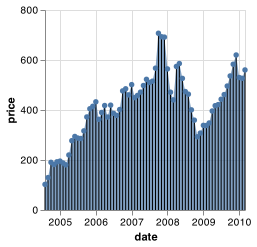
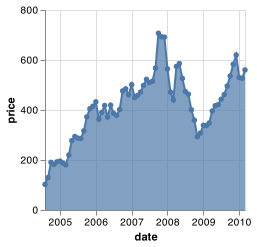
Remove y2/x2 channel for overlaying lines and points

Changed region(s): [[0.1556, 0.1417, 0.965, 0.8502]]

diff --git a/test/normalize/pathoverlay.test.ts b/test/normalize/pathoverlay.test.ts
@@ -185,6 +185,48 @@ describe('PathOverlayNormalizer', () => {
     });
   });
 
+  it('correctly normalizes area using y2 with overlay line.', () => {
+    const spec: TopLevelSpec = {
+      data: {url: 'data/stocks.csv'},
+      mark: 'area',
+      encoding: {
+        x: {field: 'date', type: 'temporal'},
+        y: {field: 'price', type: 'quantitative'},
+        y2: {value: 0, type: 'quantitative'}
+      },
+      config: {area: {line: {}, point: {}}}
+    };
+    const normalizedSpec = normalize(spec);
+    expect(normalizedSpec).toEqual({
+      data: {url: 'data/stocks.csv'},
+      layer: [
+        {
+          mark: {type: 'area', opacity: 0.7},
+          encoding: {
+            x: {field: 'date', type: 'temporal'},
+            y: {field: 'price', type: 'quantitative'},
+            y2: {value: 0, type: 'quantitative'}
+          }
+        },
+        {
+          mark: {type: 'line'},
+          encoding: {
+            x: {field: 'date', type: 'temporal'},
+            y: {field: 'price', type: 'quantitative', stack: 'zero'}
+          }
+        },
+        {
+          mark: {type: 'point', opacity: 1, filled: true},
+          encoding: {
+            x: {field: 'date', type: 'temporal'},
+            y: {field: 'price', type: 'quantitative', stack: 'zero'}
+          }
+        }
+      ],
+      config: {area: {line: {}, point: {}}}
+    });
+  });
+
   it('correctly normalizes interpolated area with overlay line', () => {
     const spec: TopLevelSpec = {
       data: {url: 'data/stocks.csv'},

diff --git a/src/normalize/pathoverlay.ts b/src/normalize/pathoverlay.ts
@@ -151,7 +151,7 @@ export class PathOverlayNormalizer implements NonFacetUnitNormalizer<UnitSpecWit
           ...pick(markDef, ['clip', 'interpolate', 'tension', 'tooltip']),
           ...lineOverlay
         },
-        encoding: overlayEncoding
+        encoding: omit(overlayEncoding, ['y2', 'x2'])
       });
     }
     if (pointOverlay) {
@@ -164,7 +164,7 @@ export class PathOverlayNormalizer implements NonFacetUnitNormalizer<UnitSpecWit
           ...pick(markDef, ['clip', 'tooltip']),
           ...pointOverlay
         },
-        encoding: overlayEncoding
+        encoding: omit(overlayEncoding, ['y2', 'x2'])
       });
     }
 
